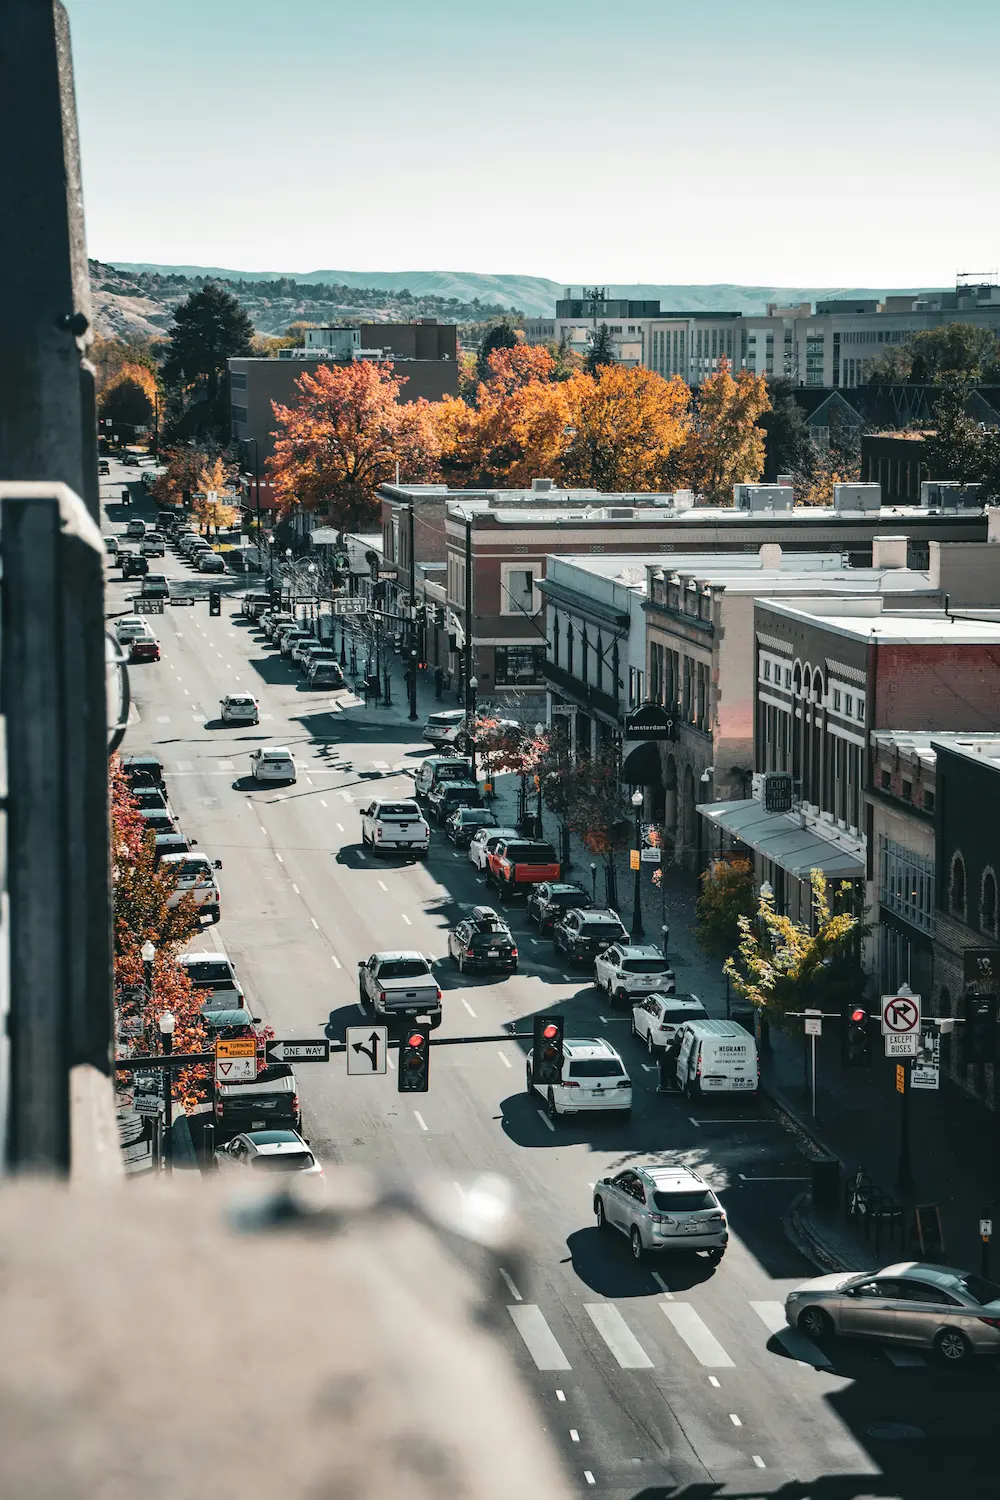
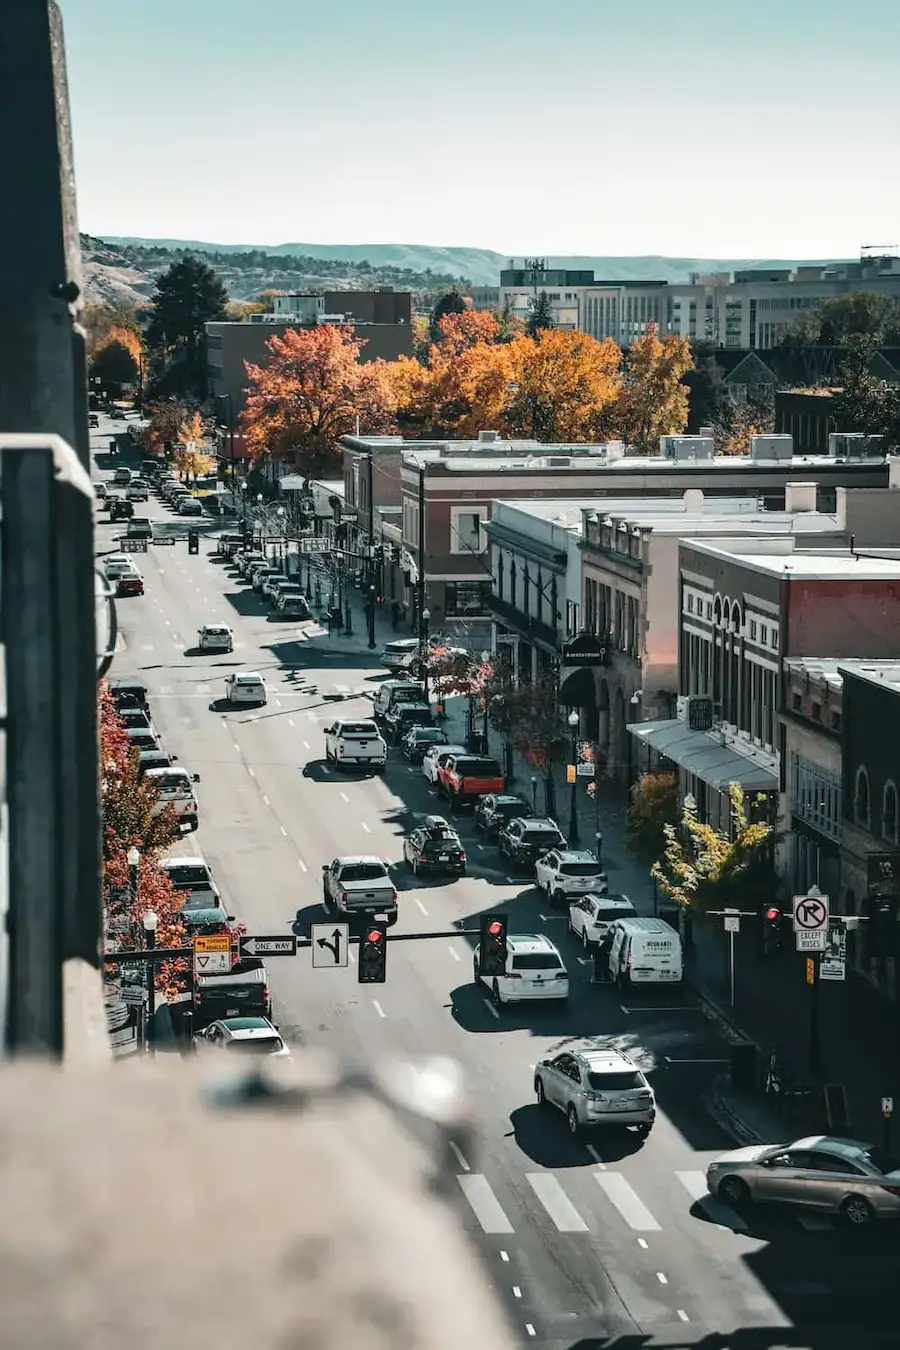
Remove mete closing tag, optimized pictures & corect css rule

diff --git a/place.html b/place.html
@@ -1,8 +1,8 @@
 <!DOCTYPE html>
 <html lang="en">
 <head>
-    <meta charset="UTF-8" />
-    <meta name="viewport" content="width=device-width, initial-scale=1.0" />
+    <meta charset="UTF-8">
+    <meta name="viewport" content="width=device-width, initial-scale=1.0">
     <meta name="description" content="Idaho - one of the places in America that I wish to visit during my graduation.">
     <meta name="author" content="Alfred Aondoaver Igba">
     <title>Idaho</title>

diff --git a/styles/place.css b/styles/place.css
@@ -61,9 +61,9 @@ header{
     display: inline-block;
     background-color: var(--secondary-color);
     color: white;
-    padding: 1rem 1.5rem;
+    padding: 1rem 3.5rem;
     border-radius: 4px;
-    margin: bottom 1.25rem;
+    bottom: 1.25rem;
 }
 
 .weather-icon{
